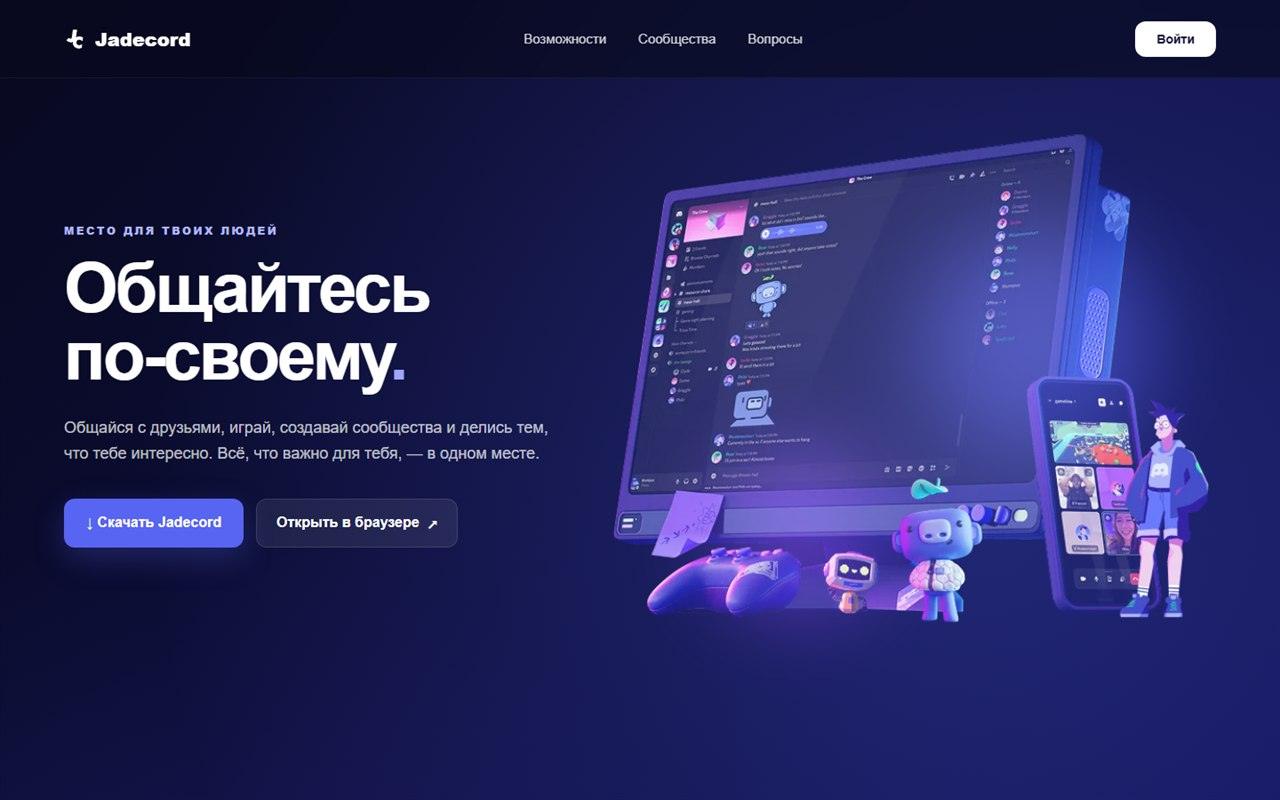
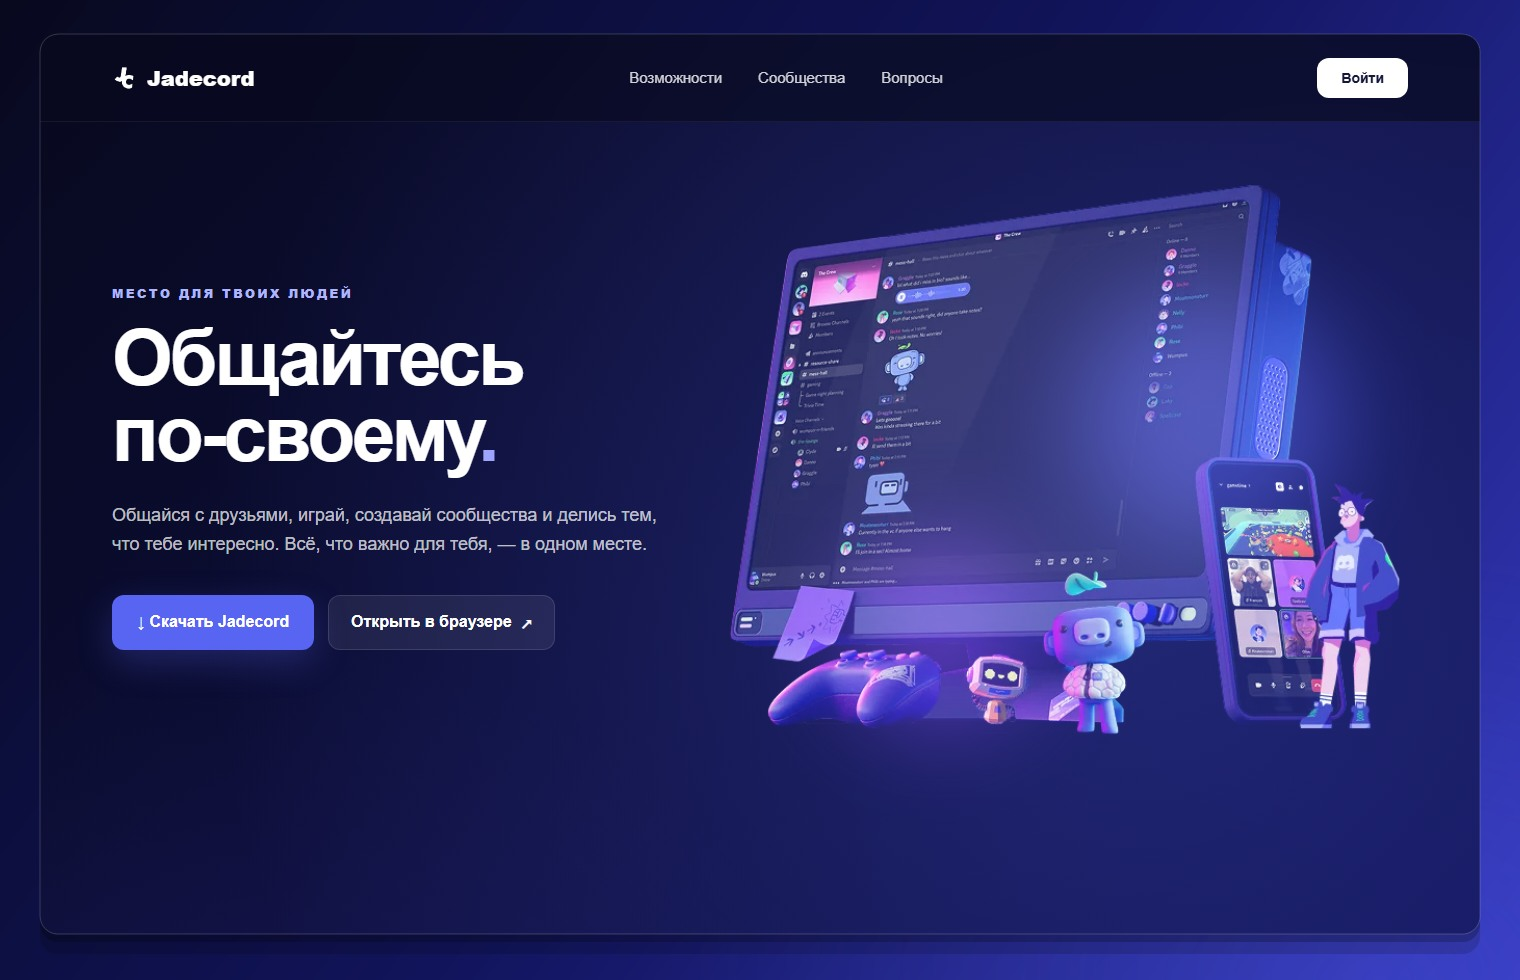
Оформить превью главной страницы в стиле клиента

Changed region(s): [[0.375, 0.0, 1.0, 1.0], [0.0312, 0.2812, 0.4375, 0.7188], [0.0312, 0.0312, 0.1875, 0.0938]]

diff --git a/README.md b/README.md
@@ -135,6 +135,10 @@ JavaScript-файле `js/data.js`. Достаточно открыть стра
 Хедер «липкий»: остаётся сверху при прокрутке, подложка полупрозрачная с `backdrop-filter: blur(18px)`.
 На мобильных иллюстрация подменяется облегчённым `webp`, а сетка карточек перестраивается в одну колонку.
 
+<p align="center">
+  <img src="docs/main-features.jpg" alt="Блок «Основные возможности» на главной странице" width="100%">
+</p>
+
 | Параметр | Значение |
 |:--|:--|
 | Фон | `linear-gradient(135deg, #08091e, #11145c, #3438bd)` + два радиальных свечения |
